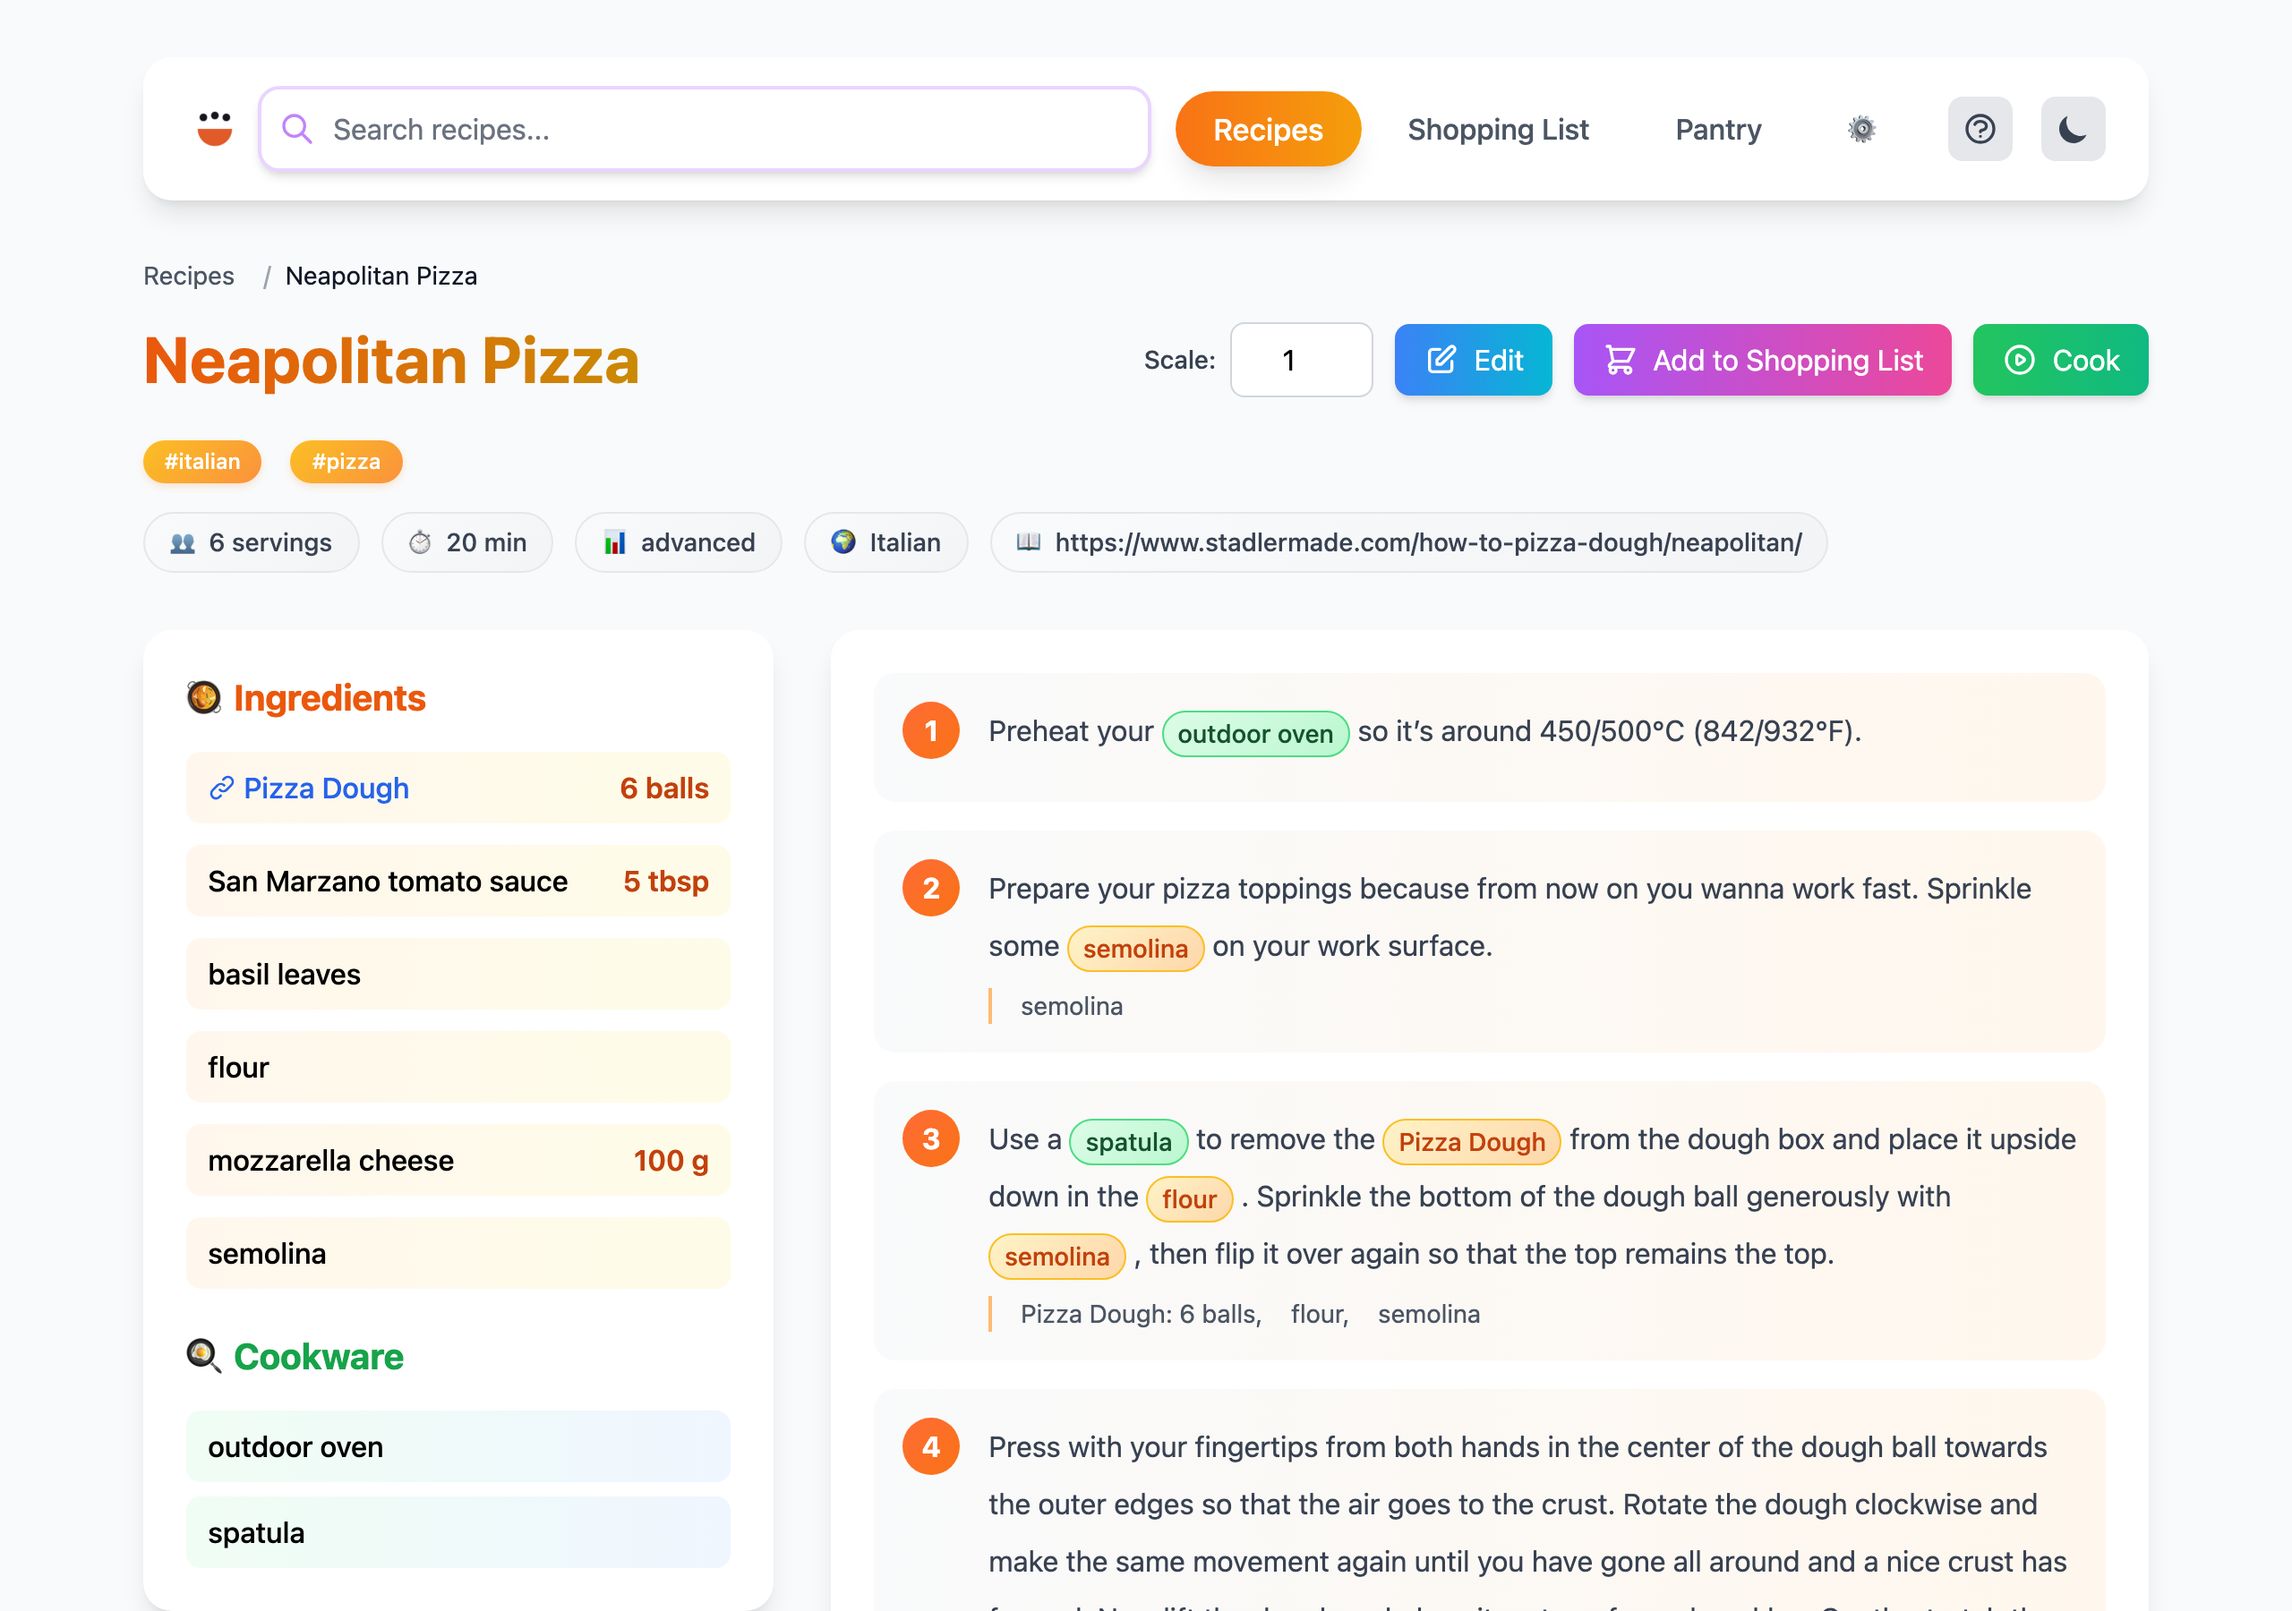
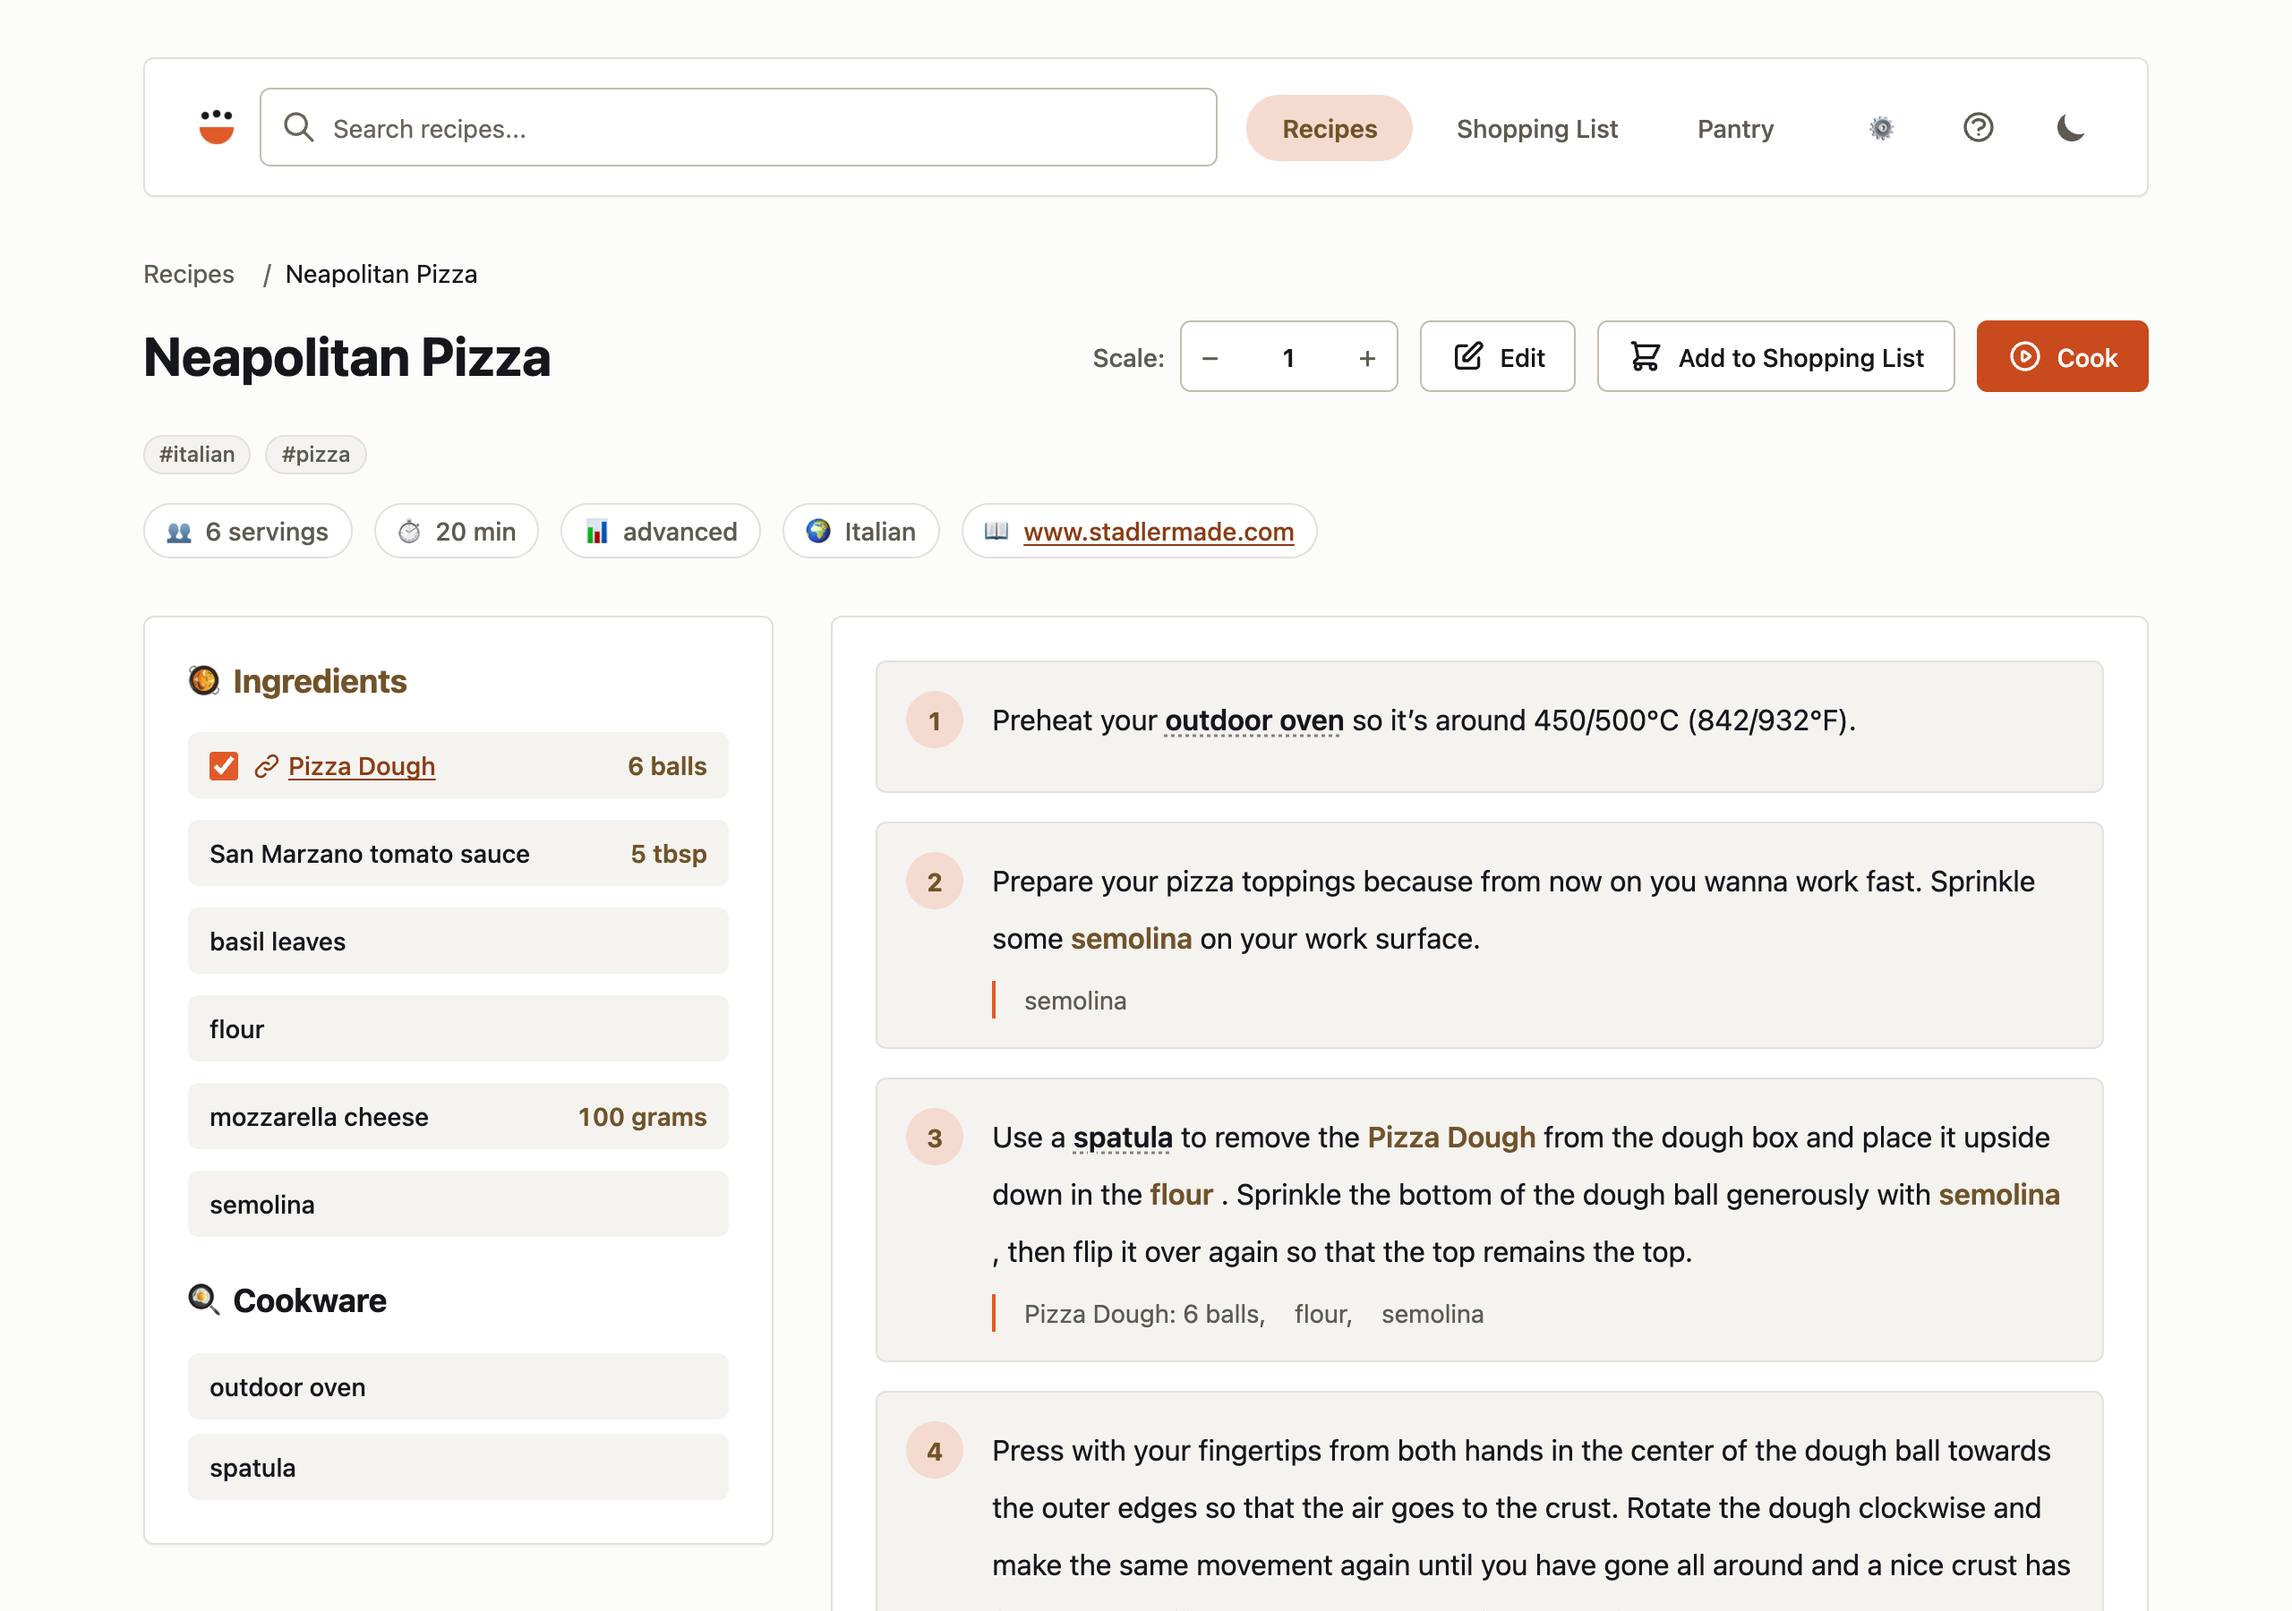
docs: refresh server screenshots, list build in commands index (#581)
* docs: refresh server screenshots for the new UI

Retaken from demo.cooklang.org (1280x900 @2x, light mode) after the
flat redesign. Same files cooklang.org now serves, so the site's
sync-cli-docs.sh no longer copies the old ones back. Bumps the README
cache-buster to v=3.

* docs: list `build` in the commands index

diff --git a/README.md b/README.md
@@ -139,11 +139,11 @@ Serving Web UI on http://localhost:9080
 Serving recipe files from: "/Users/chefalexey/recipes"
 ```
 
-<img width="600" alt="recipes" src="docs/screenshots/recipe-list.png?v=2" />
-<img width="600" alt="recipe" src="docs/screenshots/recipe-detail.png?v=2" />
-<img width="600" alt="menu" src="docs/screenshots/menu.png?v=2" />
-<img width="600" alt="shopping list" src="docs/screenshots/shopping-list.png?v=2" />
-<img width="600" alt="pantry" src="docs/screenshots/pantry.png?v=2" />
+<img width="600" alt="recipes" src="docs/screenshots/recipe-list.png?v=3" />
+<img width="600" alt="recipe" src="docs/screenshots/recipe-detail.png?v=3" />
+<img width="600" alt="menu" src="docs/screenshots/menu.png?v=3" />
+<img width="600" alt="shopping list" src="docs/screenshots/shopping-list.png?v=3" />
+<img width="600" alt="pantry" src="docs/screenshots/pantry.png?v=3" />
 
 
 ## 📦 Installation

diff --git a/docs/README.md b/docs/README.md
@@ -14,6 +14,7 @@ CookCLI is a free, open-source command-line tool for working with [Cooklang](htt
 | [report](report.md) | `rp` | Generate custom reports using templates |
 | [doctor](doctor.md) | | Analyze recipes for issues |
 | [pantry](pantry.md) | `p` | Manage and analyze pantry inventory |
+| [build](build.md) | | Build a static website from your recipes |
 | [seed](seed.md) | | Initialize with example recipes |
 | [lsp](lsp.md) | | Start the Language Server Protocol server |
 | [update](update.md) | `u` | Update CookCLI to the latest version |
